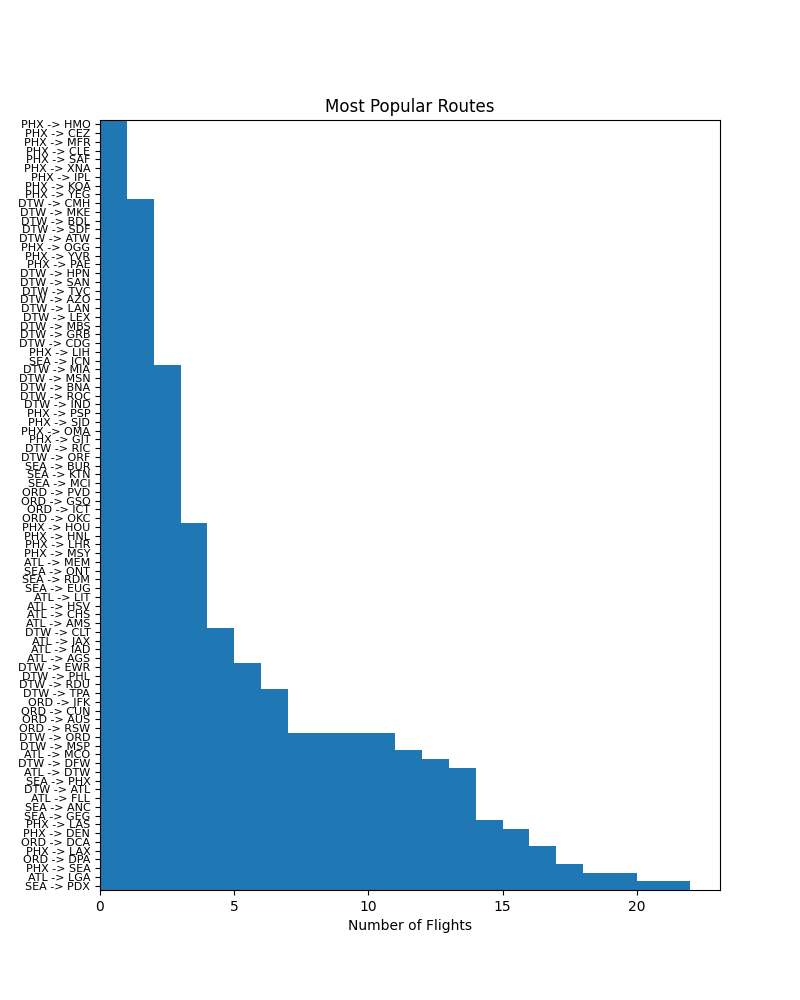
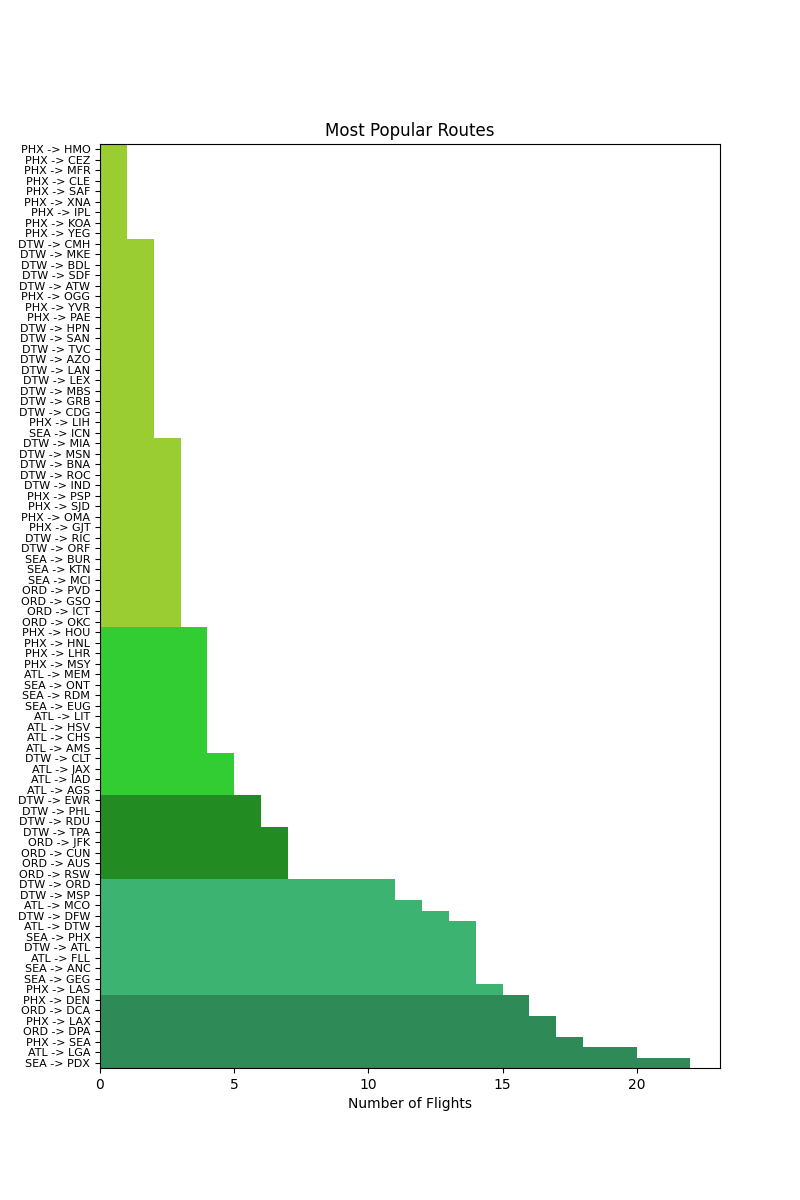
changed colors

Changed region(s): [[0.0312, 0.093, 0.875, 0.93], [0.4062, 0.093, 0.625, 0.124]]

diff --git a/flight_data_visualize.py b/flight_data_visualize.py
@@ -111,9 +111,10 @@ def parse_route_data(cur):
         num_flight_list.append(int(row[2]))
     #makes bar chart
     #this looks cramped as hell- I'll revise this when I have time too
-    plt.figure(figsize=(8,10))
+    colors = [{flight<=3: 'yellowgreen', 3<flight<=5: 'limegreen', 5<flight<=10: 'forestgreen', 10<flight<=15: 'mediumseagreen', flight>15: 'seagreen'}[True] for flight in num_flight_list]
+    plt.figure(figsize=(8,12))
     plt.margins(y=0)
-    plt.barh(routes_list, num_flight_list, height=1)
+    plt.barh(routes_list, num_flight_list, height=1, color=colors)
     plt.yticks(fontsize=8)
     plt.xlabel("Number of Flights")
     plt.title("Most Popular Routes")
